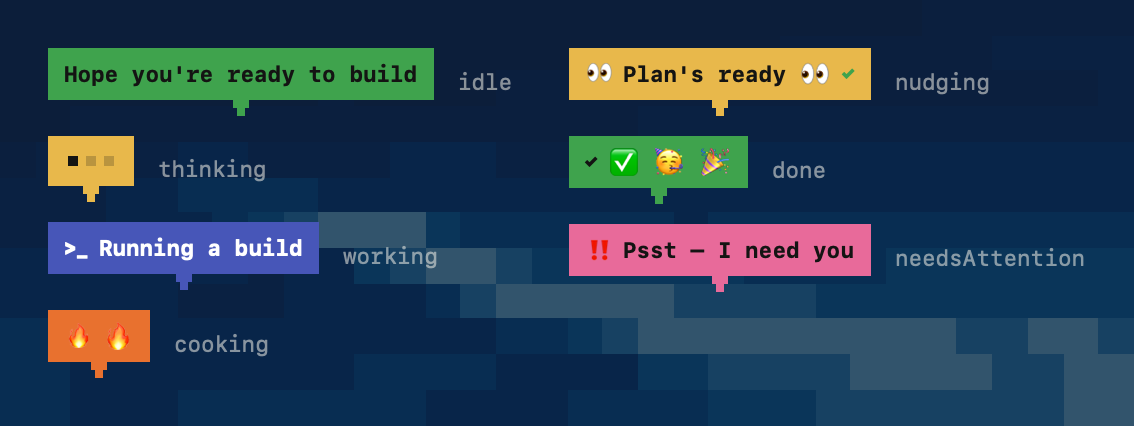
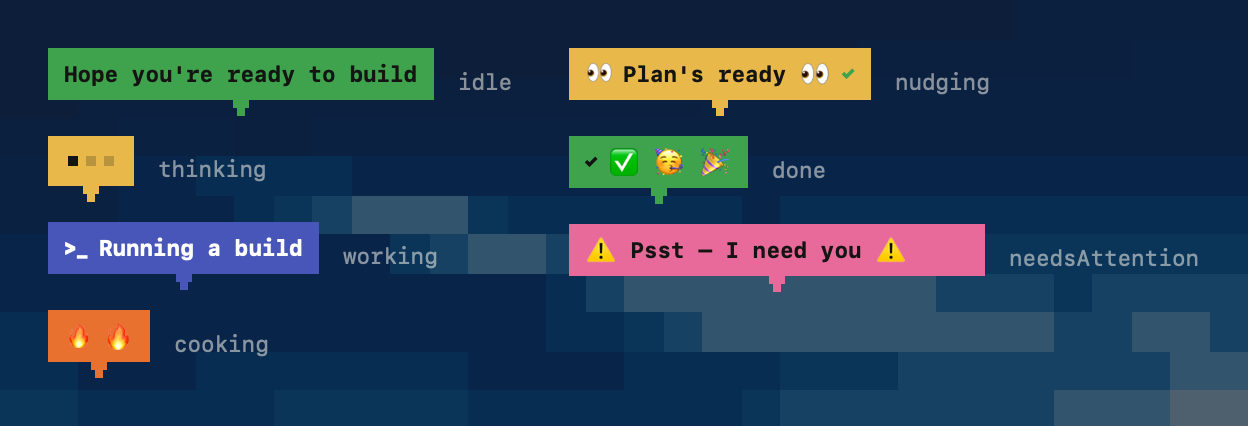
The ticker keeps only the warnings, and finally measures its own letters

diff --git a/Sources/ClaudePet/View/ThoughtBubble.swift b/Sources/ClaudePet/View/ThoughtBubble.swift
@@ -73,7 +73,15 @@ public struct ThoughtBubble: View {
 
     /// Width of the scrolling viewport. Fixed so the bubble does not resize as
     /// the ticker's content changes.
-    nonisolated static let marqueeWidth: CGFloat = 150
+    /// Widened from 150 with the status ticker.
+    ///
+    /// The ticker is now the only marquee in the app, and its lines are short
+    /// — a framed prompt like "⚠ Psst — I need you ⚠" is about 161pt. At
+    /// 150 the frame was sliced at whichever end the phase happened to be
+    /// under, which reads as motion in the app and as a rendering bug in a
+    /// committed still. At 192 the warning sits whole at both ends and a
+    /// longer prompt still scrolls.
+    nonisolated static let marqueeWidth: CGFloat = 192
 
     /// The widest the bubble is allowed to get, and the padding inside it.
     /// Hoisted out of `body` so the column count below is derived from the same
@@ -112,6 +120,22 @@ public struct ThoughtBubble: View {
     /// of the two-line bubble did: wider card, same one line, same ellipsis.
     /// Constraining the text is what actually makes it wrap.
     nonisolated static let textWidth: CGFloat = maxWidth - insetX * 2
+
+    /// 🚨 **The status ticker** — all the marquee is kept for.
+    ///
+    /// Nothing he KNOWS scrolls any more: at 38 columns over two lines every
+    /// fact and every line of his own sits still and is read whole. What is
+    /// left for a ticker is the thing a ticker is actually good at, which is
+    /// not fitting long text into a small space but saying *this is live and
+    /// it wants you*. So `needsAttention` — and only `needsAttention` — keeps
+    /// the scroll, framed on both sides so the warning is on screen at every
+    /// moment of the loop rather than only when the middle happens to pass.
+    nonisolated static func statusTicker(_ line: String) -> String {
+        "⚠ \(line) ⚠"
+    }
+
+    /// Whether this bubble is the status ticker rather than a spoken line.
+    var isStatusTicker: Bool { mood == .needsAttention && style != .dots }
 
     /// How many monospaced columns the PLAIN bubble can show: **28**, READ off a
     /// render rather than computed.
@@ -191,13 +215,22 @@ public struct ThoughtBubble: View {
                     // The dots stay wordless AND badgeless — reasoning is
                     // reasoning, whoever it is about.
                     ServiceBadge(kind: service)
-                } else if !glyph.isEmpty {
+                } else if !glyph.isEmpty, !isStatusTicker {
+                    // The ticker carries its own warning on both sides, so the
+                    // mood's badge would be a third one in the same bubble.
                     Text(glyph)
                         .font(.system(size: 10, weight: .black, design: .monospaced))
                 }
                 switch style {
                 case .dots:
                     PulsingDots(color: foreground, frozenTime: frozenTime)
+                case _ where isStatusTicker:
+                    // Ahead of both real styles: the mood decides this one,
+                    // not the length. A four-word prompt still scrolls,
+                    // because the scrolling IS the signal.
+                    MarqueeText(text: Self.statusTicker(text), font: font,
+                                width: Self.marqueeWidth,
+                                frozenTime: frozenTime, loopSeconds: loopSeconds)
                 case .marquee:
                     MarqueeText(text: text, font: font, width: Self.marqueeWidth,
                                 frozenTime: frozenTime, loopSeconds: loopSeconds)
@@ -543,7 +576,18 @@ struct MarqueeText: View {
         Clocked(frozenTime: frozenTime) { now in
             // Frozen renders keep taking the caller's instant verbatim, so
             // offline output stays byte-deterministic.
-            let elapsed = frozenTime == nil ? max(0, now - began) : now
+            // A STILL shows the ticker from its first word.
+            //
+            // `TypewriterText` already carries this rule and states the
+            // reason: a marketing asset caught mid-word is the operator's
+            // mid-sentence complaint reincarnated in a PNG. The same applies
+            // to a frame of a scrolling line — `bubbles.png` was shipping a
+            // warning sign sliced in half at both ends. A renderer that wants
+            // the ticker MOVING says so by supplying `loopSeconds`, which is
+            // what that parameter has always been for; everything else gets
+            // phase zero.
+            let elapsed = frozenTime == nil ? max(0, now - began)
+                : (loopSeconds == nil ? 0 : now)
             let measured = Self.cycle(for: text, loopSeconds: loopSeconds)
             let offset = measured > 0
                 ? -CGFloat(elapsed * Double(Self.speed)).truncatingRemainder(dividingBy: measured)
@@ -562,8 +606,36 @@ struct MarqueeText: View {
 
     /// Monospaced 11pt: every glyph is the same advance, so the width is
     /// countable rather than needing a layout pass.
+    /// The advance of one character in the bubble's face, MEASURED.
+    ///
+    /// This was 6.62 for the life of the ticker, and 6.62 is **Menlo-Bold's**
+    /// advance at 11pt — a font this app has never drawn with. The face is
+    /// `.AppleSystemUIFontMonospaced-Bold`, whose advance is 6.7998046875,
+    /// confirmed through CoreText and confirmed again by the bubble's own
+    /// ruler (28 columns fit the 194pt text area at 6.7998; at 6.62 the
+    /// arithmetic predicts 29, and the render says 29 clips).
+    ///
+    /// The error was small and it was not harmless: the scroll wrapped at a
+    /// modulus narrower than the drawn text, so the line teleported forward
+    /// by the difference once a cycle — worse the longer the sentence, which
+    /// is exactly the condition the operator reported it under.
+    nonisolated static let advance: CGFloat = 6.7998046875
+
+    /// …and an emoji is not monospaced with it. CoreText substitutes Apple
+    /// Color Emoji, measured at exactly 16.0pt — two and a third ordinary
+    /// cells. Billing one at `advance` under-measured a line like
+    /// "Riding that sunset to paradise 🌈🌊" by 24pt.
+    nonisolated static let emojiAdvance: CGFloat = 16.0
+
+    /// A per-character sum rather than a multiplication, because the two
+    /// faces have different advances and `count` cannot tell them apart.
     nonisolated static func measure(_ text: String) -> CGFloat {
-        CGFloat(text.count) * 6.62
+        text.reduce(0) { total, character in
+            let isEmoji = character.unicodeScalars.contains {
+                $0.properties.isEmojiPresentation
+            }
+            return total + (isEmoji ? emojiAdvance : advance)
+        }
     }
 
     /// One full scroll cycle in POINTS: the text plus its trailing gap, or —

diff --git a/Sources/ClaudePet/App/PetInstance.swift b/Sources/ClaudePet/App/PetInstance.swift
@@ -387,8 +387,7 @@ final class PetInstance {
                 // unrelated pass and repeated the line about one time in four.
                 let line = self.bugCursor.advance(Vocab.lines(for: .bugCaught),
                                                   id: "bugCaught")
-                self.model.transientBubble = (line ?? "Bug fixed",
-                                              Date().addingTimeInterval(2.4), .done)
+                self.say(line ?? "Bug fixed", for: 2.4, mood: .done)
                 DispatchQueue.main.asyncAfter(deadline: .now() + 1.6) { [weak self] in
                     guard let self, self.model.pouncedAt == pouncedAt else { return }
                     self.model.pouncedAt = nil
@@ -479,8 +478,7 @@ final class PetInstance {
                       self.model.pettingEndedAt == nil else { return }
                 SoundBank.play(.shimmer)
                 let line = self.petCursor.advance(Vocab.lines(for: .longPet), id: "longPet")
-                self.model.transientBubble = (line ?? "Best. Human. Ever 💛",
-                                              Date().addingTimeInterval(2.4), .done)
+                self.say(line ?? "Best. Human. Ever 💛", for: 2.4, mood: .done)
             }
         }
         controller.onPetEnd = { [weak self] in
@@ -671,11 +669,37 @@ final class PetInstance {
             guard self.model.state.mood == .idle,
                   self.model.moodClock.currentEpoch(for: .idle) == epoch else { return }
             let line = self.surfCursor.advance(Vocab.lines(for: .surf), id: "surf")
-            self.model.transientBubble = (line ?? "Aloha 🌴",
-                                          Date().addingTimeInterval(PetInstance.surfLineSeconds),
-                                          .done)
+            self.say(line ?? "Aloha 🌴", for: PetInstance.surfLineSeconds, mood: .done)
             self.armSurfLine()        // and meet the next swell
         }
+    }
+
+    /// **One door for every spoken line, and it can say no.**
+    ///
+    /// Five places used to assign `model.transientBubble` directly, and none
+    /// of them looked first. The bubble is a single slot with a queue of
+    /// writers and no lock, so whatever spoke last won — which is how the
+    /// operator came to watch a fun fact taken off the screen mid-thought.
+    ///
+    /// The rule is his: whatever is on screen finishes. A line that arrives
+    /// into an occupied bubble is DROPPED, not queued — the skate and surf
+    /// shouts are tied to a moment (a landing, a wave) and a shout that
+    /// arrives late is worse than one that never comes. Both re-arm
+    /// themselves for the next one regardless, so nothing gets stuck.
+    ///
+    /// Returns whether the line was actually said, for callers that care.
+    @discardableResult
+    private func say(_ line: String, for seconds: TimeInterval,
+                     mood: PetMood) -> Bool {
+        // Something of his own still being read.
+        if let live = model.transientBubble, live.until > Date() { return false }
+        // …or a fact holding the face. Knowledge is the tone that takes a
+        // hold; his own chatter does not, and does not need protecting from
+        // itself the way a citation does.
+        if let showing = model.state.bubble, !showing.isEmpty,
+           model.state.bubbleTone == .knowledge { return false }
+        model.transientBubble = (line, Date().addingTimeInterval(seconds), mood)
+        return true
     }
 
     /// 🎉🪄 The triple-poke party, latched with the guarded clear every latch
@@ -748,8 +772,7 @@ final class PetInstance {
             // Long enough for the longest line to finish SCROLLING, not just to
             // appear: the Hall of Meat line is 31 columns, so it goes to the
             // marquee and needs about 2.1s to walk past.
-            self.model.transientBubble = (line ?? "Kowbunga 🤙!",
-                                          Date().addingTimeInterval(PetInstance.skateLineSeconds), .done)
+            self.say(line ?? "Kowbunga 🤙!", for: PetInstance.skateLineSeconds, mood: .done)
             self.armSkateLine()          // and meet the next one
         }
     }

diff --git a/Tests/ClaudePetTests/GlyphMetricTests.swift b/Tests/ClaudePetTests/GlyphMetricTests.swift
@@ -1,0 +1,82 @@
+import Testing
+import Foundation
+import AppKit
+@testable import ClaudePet
+
+/// **The ticker's arithmetic, checked against the font itself.**
+///
+/// `MarqueeText.measure` prices a line without a layout pass, which is the
+/// only way `readSeconds` can stay a pure function that tests and schedulers
+/// can call. The cost of that is a constant standing in for a font metric —
+/// and for the life of the ticker the constant was wrong. It said 6.62, which
+/// is Menlo-Bold's advance at 11pt; the bubble draws in
+/// `.AppleSystemUIFontMonospaced-Bold`, whose advance is 6.7998046875. The
+/// line was therefore drawn wider than the modulus it wrapped at, and jumped
+/// forward by the difference once every cycle — growing with the sentence,
+/// which is exactly how the operator described it.
+///
+/// The bubble's own doc had already caught the discrepancy from the other
+/// direction and resolved it by reading a ruler off a render rather than
+/// fixing the constant, leaving the note "6.62 … runs a little under the real
+/// advance" sitting above code that kept using 6.62.
+///
+/// So the render stops being the authority and the FONT becomes it. If a
+/// future macOS changes either metric, this fails loudly instead of quietly
+/// reopening the seam.
+@MainActor
+struct GlyphMetricTests {
+
+    private func width(_ text: String) -> CGFloat {
+        let font = NSFont.monospacedSystemFont(ofSize: 11, weight: .bold)
+        return (text as NSString).size(withAttributes: [.font: font]).width
+    }
+
+    @Test("The assumed advance is the font's real advance")
+    func theAdvanceIsReal() {
+        // Every glyph the same, which is what makes a per-character sum legal
+        // in the first place — and worth asserting, since a proportional face
+        // would make `measure` meaningless rather than merely inaccurate.
+        for sample in ["M", "i", " ", "W", "."] {
+            #expect(abs(width(sample) - MarqueeText.advance) < 0.001,
+                    "\"\(sample)\" advances \(width(sample)), not \(MarqueeText.advance)")
+        }
+        // And no tracking or kerning across a run, so the sum is the width.
+        let sixty = String(repeating: "M", count: 60)
+        #expect(abs(width(sixty) - MarqueeText.advance * 60) < 0.01,
+                "60 glyphs measure \(width(sixty)), not \(MarqueeText.advance * 60)")
+    }
+
+    @Test("An emoji is priced as the different face it actually is")
+    func emojiAreNotMonospaced() {
+        for emoji in ["🌊", "🌴", "🤙", "🦀", "🌈"] {
+            #expect(abs(width(emoji) - MarqueeText.emojiAdvance) < 0.001,
+                    "\(emoji) advances \(width(emoji)), not \(MarqueeText.emojiAdvance)")
+        }
+    }
+
+    /// The whole point, end to end: `measure` agrees with what SwiftUI lays
+    /// out, for mixed text — which is what makes the wrap seamless.
+    @Test("measure agrees with the real layout, emoji and all")
+    func measureMatchesTheLayout() {
+        let lines = Vocab.lines(for: .surf)
+            + FunFacts.all.prefix(20)
+            + ["Sharks existed before trees did.", "Aloha 🌴", "plain ascii only"]
+        for line in lines {
+            #expect(abs(MarqueeText.measure(line) - width(line)) < 0.5,
+                    "\"\(line)\" measures \(MarqueeText.measure(line)) but lays out at \(width(line))")
+        }
+    }
+
+    /// The bubble's column count, now DERIVED rather than read off a ruler.
+    /// 38 columns must fit the text area and 39 must not — the same fact the
+    /// old doc comment established empirically, restated as arithmetic that
+    /// only holds at the correct advance.
+    @Test("The column count is the one the text area actually allows")
+    func theColumnCountFits() {
+        let area = ThoughtBubble.textWidth
+        #expect(MarqueeText.advance * CGFloat(ThoughtBubble.plainColumns) <= area,
+                "\(ThoughtBubble.plainColumns) columns do not fit \(area)pt")
+        #expect(MarqueeText.advance * CGFloat(ThoughtBubble.plainColumns + 1) > area,
+                "\(ThoughtBubble.plainColumns + 1) columns would also fit — the bubble is wider than it says")
+    }
+}

diff --git a/Tests/ClaudePetTests/FunFactTests.swift b/Tests/ClaudePetTests/FunFactTests.swift
@@ -22,13 +22,37 @@ struct FunFactTests {
     ///
     /// Two seconds of the slot are left as margin for the bubble's 0.28s
     /// fade-in and the reducer's 2s tick landing after the seed boundary.
-    @Test("Every fact finishes scrolling before its slot is up")
+    ///
+    /// **Rescoped twice over.** It used to run over every fact, because every
+    /// fact scrolled. Two things changed together: the bubble grew a second
+    /// line, so no fact scrolls at all, and `MarqueeText.measure` stopped
+    /// under-measuring by 0.18pt a character (and by 9.4pt an emoji), which
+    /// made two facts nominally exceed a budget they are no longer subject
+    /// to. Asserting a scrolling deadline against lines that never scroll
+    /// would be a gate on nothing.
+    ///
+    /// So the guard now covers the case that would actually break: a fact
+    /// written past the bubble's 76-character capacity would start scrolling,
+    /// and if it did it would still have to finish inside its slot. Today
+    /// that loop body runs zero times — which the assertion below states
+    /// outright, so this cannot quietly become a no-op gate.
+    @Test("Anything long enough to scroll still finishes inside its slot")
     func factsFinishInsideTheirSlot() {
         let budget = ActivityCoordinator.chatterInterval - 2
-        for fact in FunFacts.all {
+        let scrolling = FunFacts.all.filter {
+            ActivityCoordinator.bubbleStyle(for: $0) == .marquee
+        }
+        for fact in scrolling {
             let read = MarqueeText.readSeconds(for: fact, width: MarqueeText.viewport)
             #expect(read <= budget,
                     "\"\(fact)\" needs \(String(format: "%.1f", read))s of a \(budget)s slot")
+        }
+        // The premise, stated: nothing scrolls today, and every fact is
+        // inside the bubble it is shown in.
+        #expect(scrolling.isEmpty, "\(scrolling.count) facts still scroll")
+        for fact in FunFacts.all {
+            #expect(fact.count <= ThoughtBubble.plainCapacity,
+                    "\"\(fact)\" is \(fact.count) characters, past the bubble's \(ThoughtBubble.plainCapacity)")
         }
     }
 
